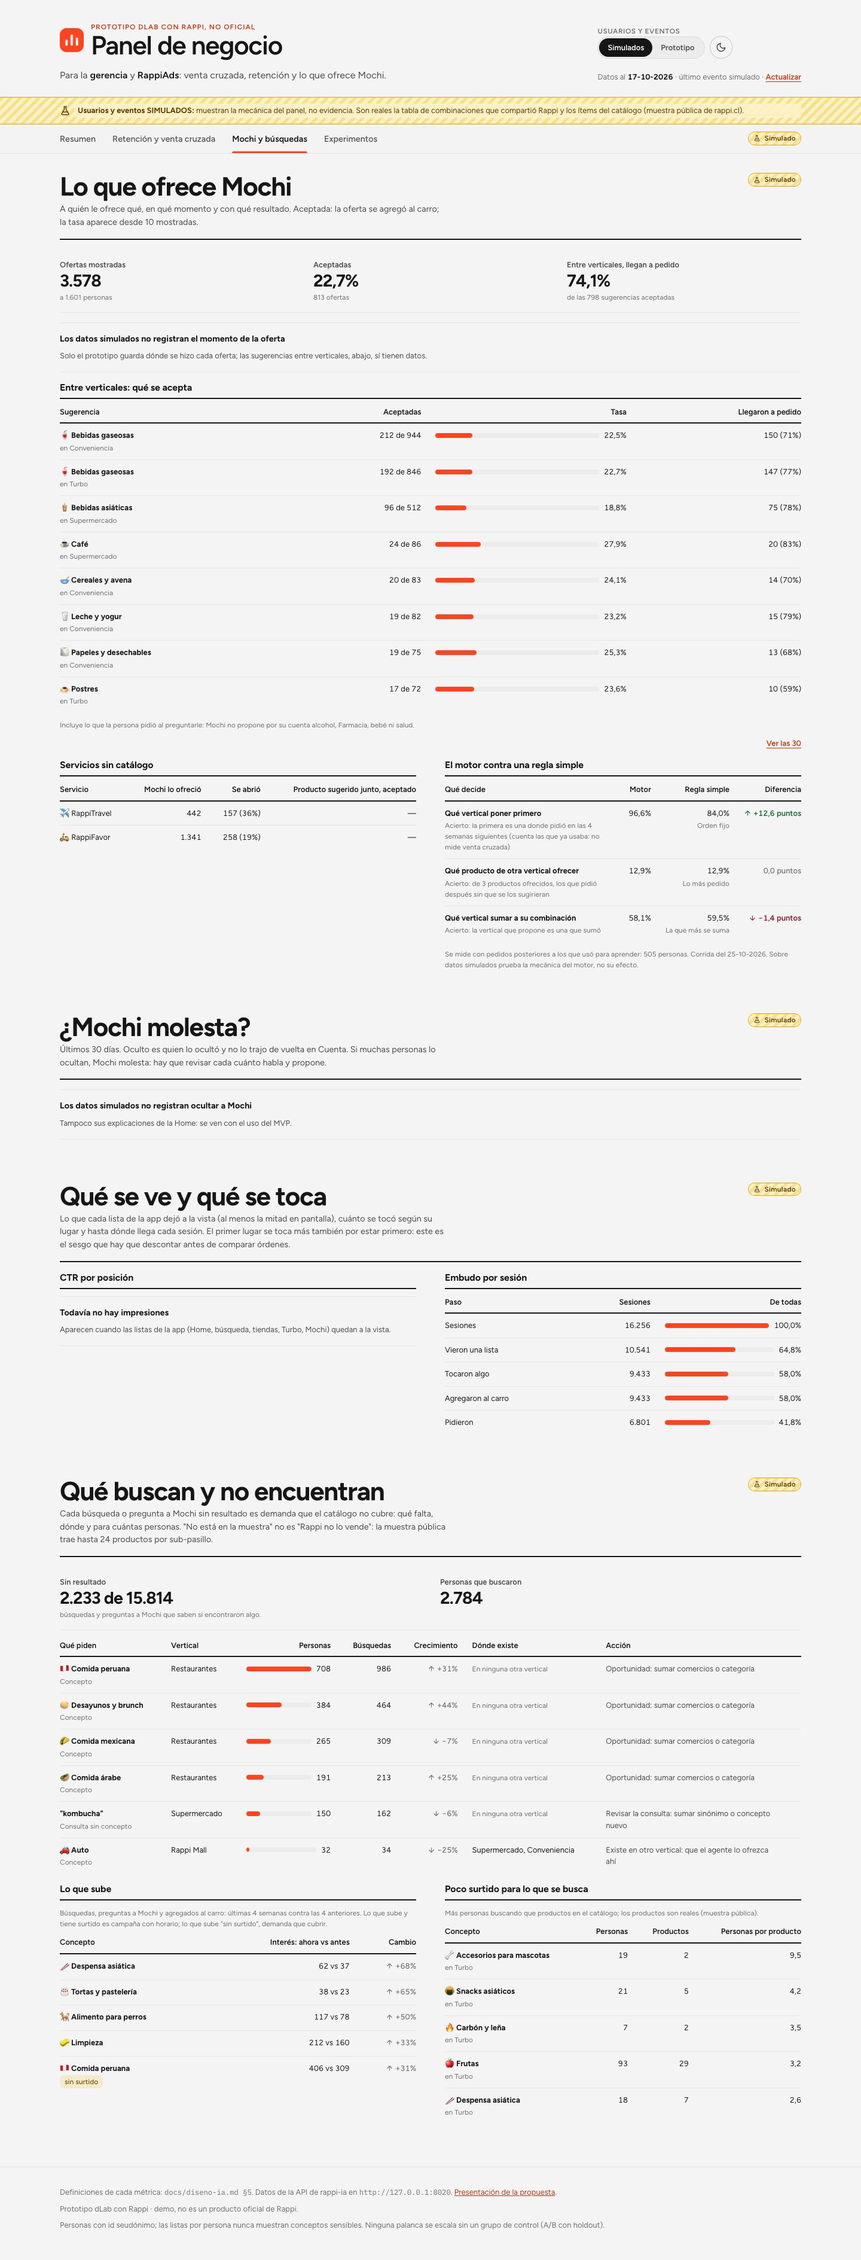
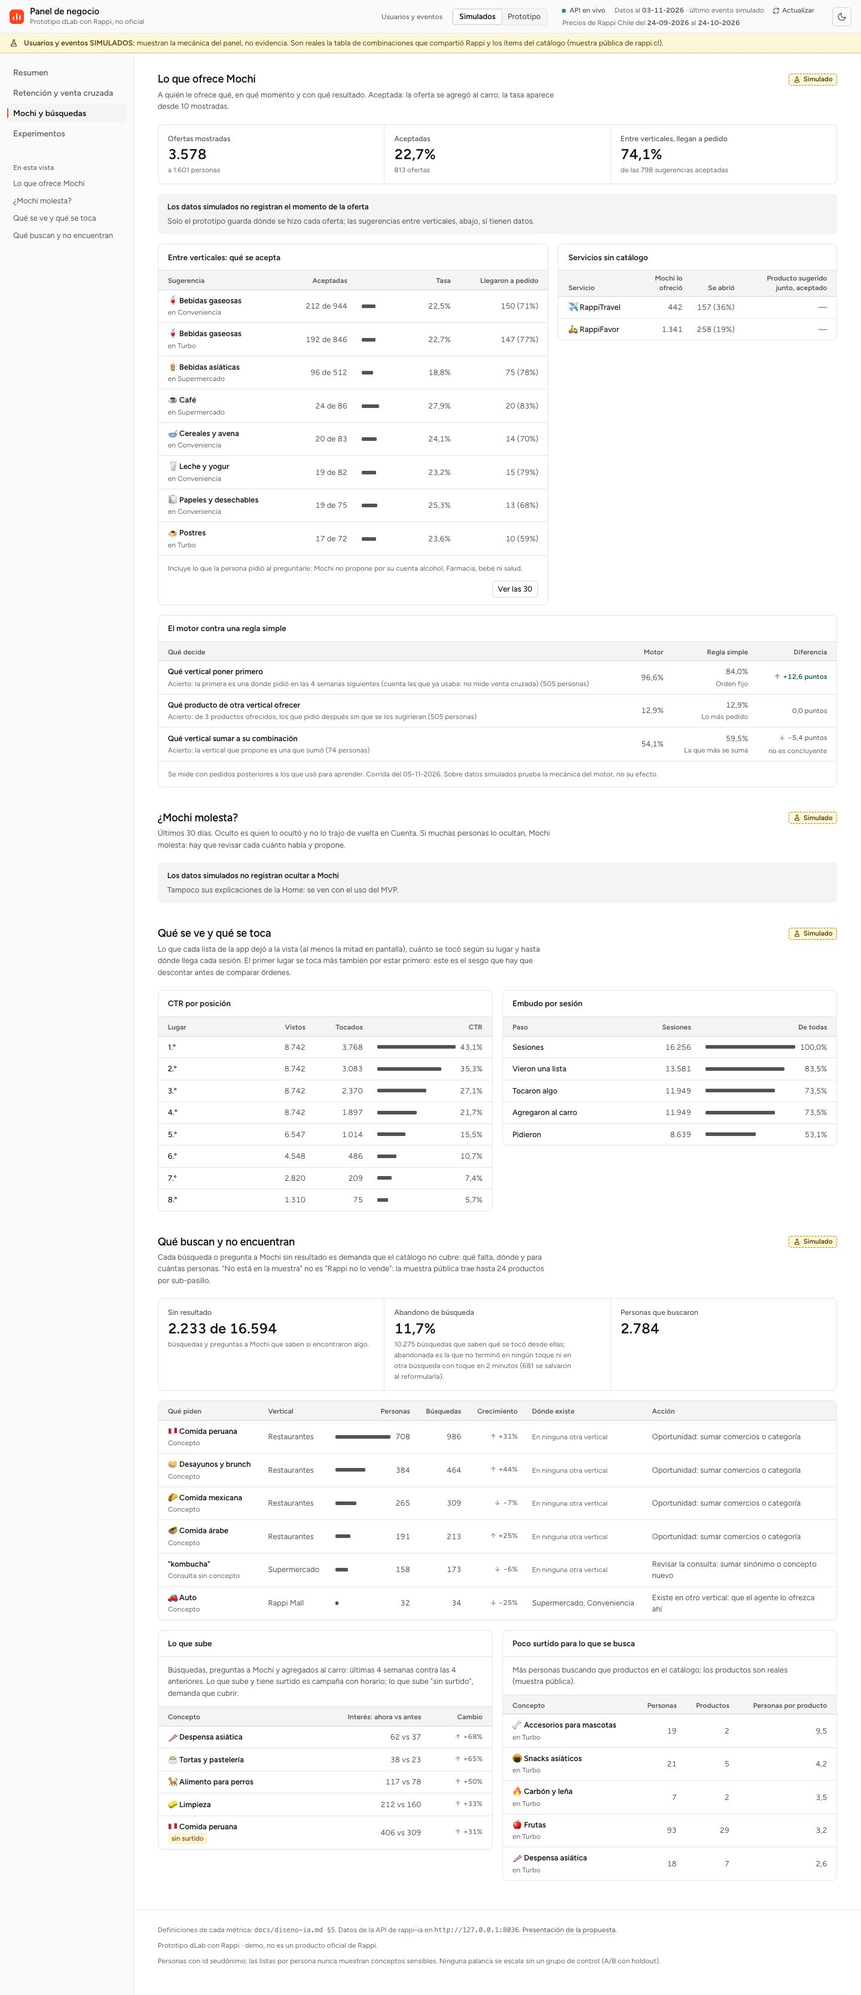
docs(panel): capturas y decisión del rediseño

diff --git a/dashboard-empresa/README.md b/dashboard-empresa/README.md
@@ -58,7 +58,7 @@ La URL de la API se cambia con `VITE_API_URL`, por ejemplo `VITE_API_URL=http://
 | `npm run format:check` | Revisa el formato con Prettier sin cambiar nada (lo que corre el CI); `npm run format` lo arregla |
 | `npm run build` | Build de producción en `dist/` |
 | `npm run fixtures` | Guarda en el repo las respuestas simuladas de la última foto de `npm run panel:snapshot`: las de `src/fixtures/sin-conexion/` (lo que se ve sin la API) y los ejemplos `*.synthetic.json` de los tests. Correrlo tras `make synth` o una actualización del catálogo, después de grabar la foto. El uso del prototipo no se guarda (lleva lo que hizo la gente). Los ejemplos de ofertas por momento, a quién invitar a volver, búsquedas sin resultado, combinaciones, motor y experimentos de `src/fixtures/` no pasan por aquí: los escribe `make contract` en `rappi-ia/` (con su simulación chica) y el CI falla si quedan desactualizados |
-| `npm run screenshots` | Regenera `docs/screenshots/` con el Chrome instalado y un Vite propio en el 5198 (con `VITE_API_URL`, contra otra API: las de este README se tomaron el 03-11-2026 contra una API sobre `rappi_staging`) |
+| `npm run screenshots` | Regenera `docs/screenshots/` con el Chrome instalado y un Vite propio en el 5198 (con `VITE_API_URL`, contra otra API: las de este README se tomaron el 10-11-2026 contra una API sobre `rappi_staging`) |
 | `npm run panel:snapshot` | Graba las respuestas que lee el panel (solo GET) desde una API sobre una copia de la base, en `snapshot/panel.json` (ignorada en git). La usan `npm run fixtures` y el [panel en un solo HTML](#panel-en-un-solo-html) |
 | `npm run panel:html` | Arma `dist-html/Panel de negocio (demo).html`: el panel con esas respuestas adentro, que abre con doble clic sin la API ni internet |
 | `npm run panel:snapshot:fixtures` | Arma `snapshot/panel.json` desde los ejemplos de `src/fixtures/` (sin API), para probar `npm run panel:html` (lo hace el CI). No pisa una foto grabada |
@@ -67,11 +67,11 @@ Tests: las cifras vigentes están en [README.md#resultados](../README.md#resulta
 
 ## Vistas
 
-Arriba se elige la fuente de usuarios y eventos: **Simulados** o **Prototipo** (lo hecho en `prototipo-app`). La vista y la fuente quedan en la URL (`?vista=clientes&fuente=prototipo`), así que un enlace abre exactamente lo mismo; una vista que no existe abre el Resumen. Ningún pedido cancelado cuenta en las cifras (migración 051). El encabezado dice de qué fecha son los precios ("Precios de Rappi Chile del … al …", el `catalogo` de `/catalog/home`; en el panel en un solo HTML, el de su foto); sin la API no lo muestra, porque los datos guardados no son del catálogo.
+Arriba se elige la fuente de usuarios y eventos: **Simulados** o **Prototipo** (lo hecho en `prototipo-app`). La barra de arriba dice además de dónde salen los datos que se ven ("API en vivo", "Datos guardados", "API sin conexión" o "Foto grabada"), la fecha de corte y "Actualizar"; debajo, la franja de procedencia (simulados o prototipo) queda fija al bajar. Desde 1200 px las vistas van en una navegación lateral, con "En esta vista" para saltar a cada sección; más angosto, en una tira fija arriba. La vista y la fuente quedan en la URL (`?vista=clientes&fuente=prototipo`), así que un enlace abre exactamente lo mismo; una vista que no existe abre el Resumen. Ningún pedido cancelado cuenta en las cifras (migración 051). El encabezado dice de qué fecha son los precios ("Precios de Rappi Chile del … al …", el `catalogo` de `/catalog/home`; en el panel en un solo HTML, el de su foto); sin la API no lo muestra, porque los datos guardados no son del catálogo.
 
 ### 1. Resumen
 
-**Qué decidir:** las cuatro preguntas como tarjetas. Cada una trae su procedencia, la cifra que se mira primero, su contexto (una comparación o la tendencia de 4 semanas), una acción sugerida que sale de los datos y el enlace a su detalle:
+**Qué decidir:** las cuatro preguntas como una lista, una fila por pregunta. Cada una trae su procedencia, la cifra que se mira primero, su contexto (una comparación o la tendencia de 4 semanas), una acción sugerida que sale de los datos y el enlace a su detalle:
 
 - **Venta cruzada** (dato de Rappi): la combinación donde están más usuarios (hoy, solo Restaurantes) y cuánto más vuelve quien suma el grupo siguiente. Acción: que Mochi lo ofrezca como "vertical por probar" y medirlo contra un grupo de control.
 - **A quién estamos perdiendo:** las personas en riesgo según su propio ritmo, con las perdidas como comparación. Acción: "¿Volvemos a…?" a quienes califican; fuera de la app, solo con consentimiento.
@@ -79,7 +79,7 @@ Arriba se elige la fuente de usuarios y eventos: **Simulados** o **Prototipo** (
 - Con la fuente del prototipo la acción se llama "Para revisar en el MVP": esos datos no son evidencia.
 - **Búsquedas:** el % sin resultado de la última semana contra 4 semanas antes y lo que más falta. Acción: la que da la API para esa demanda; si es "sumar comercios", primero revisar el buscador (un sinónimo o una categoría que falta).
 
-**Cómo va:** cinco indicadores. Personas activas, pedidos y abandono de carrito con su cambio contra 4 semanas antes y la tendencia de 12 semanas (la línea aparece desde 5 semanas completas); frecuencia (30 días) y el % que pide en 2 o más verticales (60 días), con lo que los explica. La serie semanal completa queda a un clic. Las diferencias de tasas van en "puntos" (puntos porcentuales).
+**Cómo va:** cinco indicadores en una tira. Personas activas, pedidos y abandono de carrito con su cambio contra 4 semanas antes y la tendencia de 12 semanas (la línea aparece desde 5 semanas completas); frecuencia (30 días) y el % que pide en 2 o más verticales (60 días), con lo que los explica. La serie semanal completa queda a un clic. Las diferencias de tasas van en "puntos" (puntos porcentuales).
 
 ![Resumen: qué decidir y cómo va](docs/screenshots/1-resumen-escritorio-claro.jpg)
 
@@ -101,7 +101,7 @@ Para la gerencia.
 
 Para RappiAds.
 
-- **Lo que ofrece Mochi:** ofertas mostradas, la tasa de aceptación y cuánto de lo aceptado entre verticales llega a pedido. Debajo, lado a lado: las **ofertas por momento**, cada una con una línea que dice dónde se hace (en un plan, con el carro armado, antes de pagar, para el próximo pedido, cuando una búsqueda no encontró nada, para probar otro vertical, en la recompra, al volver a pedir, en un perfil de gusto, mientras llega otro pedido (OnTop de Turbo), al preguntarle o en "Para ti") y, por momento, las rechazadas ("Ahora no" en el Carro; "Después" en Vertical por probar, Recompra y Volver a pedir; "—" en los momentos sin ese botón; la oferta que se fue sola del globo no es un rechazo), las abiertas (la vertical abierta desde el botón de la oferta, "Ver …" o "Abrir …", en Carro, Vertical por probar, Sin resultado y Perfil de gusto: no es una aceptación) y los "¿Por qué?" abiertos, las **sugerencias entre verticales** que más se muestran ("212 de 944" aceptadas, la tasa y cuántas llegaron a pedido; incluyen lo que la persona pidió al preguntarle, y Mochi no propone alcohol por su cuenta), los **servicios sin catálogo** (RappiTravel y RappiFavor: ofrecidos, abiertos y el gancho del catálogo aceptado) y **el motor contra una regla simple** (próximo vertical contra el orden fijo, compra cruzada contra lo más pedido y el paso de la escalera contra la vertical que más se suma, en el tramo de prueba de su evaluación por fechas). Los pedidos que Mochi hizo solo, con el permiso de "Pedir por mí", van en una línea aparte: no son ofertas aceptadas. Aceptada: la oferta se agregó al carro (también en la recompra, aunque su botón sea "Ver producto"). La tasa aparece desde 10 mostradas, o desde 10 aceptadas para lo que llega a pedido; antes, solo las cuentas. El simulador no guarda el momento de la oferta: con los simulados el panel lo dice en una línea y las sugerencias ocupan todo el ancho.
+- **Lo que ofrece Mochi:** ofertas mostradas, la tasa de aceptación y cuánto de lo aceptado entre verticales llega a pedido. Debajo, a todo el ancho, las **ofertas por momento**, cada una con una línea que dice dónde se hace (en un plan, con el carro armado, antes de pagar, para el próximo pedido, cuando una búsqueda no encontró nada, para probar otro vertical, en la recompra, al volver a pedir, en un perfil de gusto, mientras llega otro pedido (OnTop de Turbo), al preguntarle o en "Para ti") y, por momento, las rechazadas ("Ahora no" en el Carro; "Después" en Vertical por probar, Recompra y Volver a pedir; "—" en los momentos sin ese botón; la oferta que se fue sola del globo no es un rechazo), las abiertas (la vertical abierta desde el botón de la oferta, "Ver …" o "Abrir …", en Carro, Vertical por probar, Sin resultado y Perfil de gusto: no es una aceptación) y los "¿Por qué?" abiertos; lado a lado, las **sugerencias entre verticales** que más se muestran ("212 de 944" aceptadas, la tasa y cuántas llegaron a pedido; incluyen lo que la persona pidió al preguntarle, y Mochi no propone alcohol por su cuenta), los **servicios sin catálogo** (RappiTravel y RappiFavor: ofrecidos, abiertos y el gancho del catálogo aceptado), y a todo el ancho **el motor contra una regla simple** (próximo vertical contra el orden fijo, compra cruzada contra lo más pedido y el paso de la escalera contra la vertical que más se suma, en el tramo de prueba de su evaluación por fechas). Los pedidos que Mochi hizo solo, con el permiso de "Pedir por mí", van en una línea aparte: no son ofertas aceptadas. Aceptada: la oferta se agregó al carro (también en la recompra, aunque su botón sea "Ver producto"). La tasa aparece desde 10 mostradas, o desde 10 aceptadas para lo que llega a pedido; antes, solo las cuentas. El simulador no guarda el momento de la oferta: con los simulados el panel lo dice en una caja en su lugar.
 - **¿Mochi molesta?** (`/analytics/presencia`, últimos 30 días, como las personas activas del Resumen): cuántas personas activas tienen a Mochi oculto (su último cambio, `agent_visibility`, fue ocultarlo) y qué % son, cuántas veces lo ocultaron, cuántas lo trajeron de vuelta en Cuenta y cuántas veces explicó por qué movió los accesos de la Home (`vertical_reorder_shown`), a cuántas personas. Si muchas lo ocultan, Mochi molesta: hay que revisar cada cuánto habla y propone. La app no anota "¿Por qué?" ni "Entendido" del globo, así que no se cuentan. El simulador no genera estos eventos: con los simulados, un estado vacío que lo dice.
 - **Qué se ve y qué se toca:** de lo que cada lista de la app dejó a la vista (al menos la mitad en pantalla), el CTR por posición (`/analytics/ctr-posicion`) y el embudo por sesión: vio una lista → tocó algo → agregó al carro → pidió (`/analytics/embudo-sesion`). El primer lugar se toca más también por estar primero: es el sesgo que hay que descontar antes de comparar órdenes. Sale de las impresiones registradas (migraciones 047 y 048): sin ellas, la tabla queda vacía.
 - **Qué buscan y no encuentran:** la demanda no satisfecha agrupada por concepto y vertical (5 o más personas), con su crecimiento, dónde existe y la acción sugerida; si ninguna llega a ese mínimo (lo normal con el prototipo), las búsquedas sin resultado por vertical y concepto, nunca con el texto que escribió cada persona. Junto a las cuentas, el **abandono de búsqueda** (`abandono` en `/analytics/unmet`): las búsquedas que no terminaron en ningún toque ni en otra búsqueda con toque en 2 minutos, con cuántas se salvaron al reformularlas; el % aparece desde 10 búsquedas. Al lado, **lo que sube** (señales de interés, 4 semanas contra las 4 anteriores, con "sin oferta" si además es demanda no satisfecha) y **poco surtido** (más personas buscando que ítems en la muestra pública).
@@ -158,7 +158,7 @@ No se puede: actualizar (no hay API; el botón no aparece), ver la presentación
 - **Cada número con su contexto.** Una comparación (la combinación siguiente, las perdidas, la regla simple), la tendencia de 4 semanas o lo que lo explica. Las tasas aparecen desde 10 casos en su denominador; antes, solo las cuentas. Rojo solo para lo que empeora y verde para lo que mejora, siempre con flecha y texto; la demanda que crece va en gris, porque no es un resultado bueno ni malo.
 - **Color con significado.** El naranja Rappi para magnitud y para lo que se propone; el gris para el contexto (en la escalera, la retención de hoy), con contraste de 3:1 con el fondo y separable del naranja con daltonismo; el ámbar rayado marca lo simulado.
 - **Todo valor se puede leer sin el gráfico.** La escalera tiene su tabla (*Ver tabla*) y su descripción para lectores de pantalla; la serie semanal, su tabla.
-- **Accesibilidad.** Pestañas accesibles (← → Inicio Fin; en el teléfono, con nombres cortos: Resumen, Clientes, Mochi y Experimentos); los enlaces del Resumen llevan el foco al título de la sección; bajo 900 px las tablas pasan a tarjetas; respeto de `prefers-reduced-motion`.
+- **Accesibilidad.** Pestañas accesibles (← → y ↑ ↓, Inicio y Fin; en el teléfono, con nombres cortos: Resumen, Clientes, Mochi y Experimentos); los enlaces del Resumen y los de "En esta vista" llevan el foco al título de la sección; bajo 900 px las tablas pasan a tarjetas; respeto de `prefers-reduced-motion`.
 
 ## Estructura
 
@@ -167,9 +167,9 @@ src/
 ├── App.jsx                 pestañas, fuente, aviso de procedencia, enlaces a una sección
 ├── presentacion.js         página de presentación de la propuesta (con presentacion.html y public/presentacion/)
 ├── lib/                    api.js (API, respaldo y foto), metrics.js (lo que lee el panel), agentName.js (el nombre visible del agente), format.js (es-CL), labels.js, hooks
-├── components/             tabla, insignias, cifras, estados vacío/carga/error
+├── components/             tabla, panel, insignias, cifras, estados vacío/carga/error
 │   ├── charts/             chispa de tendencia (SVG propio, sin librerías)
-│   └── shell/              encabezado, selector de fuente, tema, pestañas
+│   └── shell/              encabezado, selector de fuente, tema, pestañas y "En esta vista"
 ├── views/
 │   ├── overview/           Resumen: las 4 decisiones (decisions.js) y cómo va (weekly.js)
 │   ├── customers/          Retención y venta cruzada: la escalera (ladder.js) y el rescate (audiences.js)
@@ -177,7 +177,7 @@ src/
 │   └── experiments/        Experimentos: una tabla por experimento (etiquetas en experiments.js)
 ├── demo/                   "Ver cómo funciona" (solo en el panel en un solo HTML): el recorrido (tour.js) y su tarjeta
 ├── fixtures/               respuestas de ejemplo de la API para los tests; sin-conexion/, las que se ven sin la API
-├── styles/                 estilos
+├── styles/                 tokens, estilos globales y shared.css (marca y pie, compartidos con la presentación)
 └── test/                   API falsa para los tests de render
 scripts/                    panel-snapshot.mjs (la foto de la API), fixtures-snapshot.mjs (la foto chica que usa el CI), update-fixtures.mjs, screenshots.mjs y panel-html.mjs (el HTML suelto)
 docs/screenshots/           capturas (en git solo las 5 que usa este README, comprimidas)

diff --git a/docs/decisiones.md b/docs/decisiones.md
@@ -21,7 +21,7 @@ Resumen de lo que rige hoy (05-11-2026); el detalle y el porqué están en las f
 - **Descubrimiento (25-10):** filtros que funcionan, abierto o cerrado según lo publicado, recientes y "Lo más buscado", tiendas en la búsqueda, comparar entre tiendas y "Lo que sea" ([búsqueda](#búsqueda-e-ia)).
 - **Lo destacado** (lo más pedido, los kits y las listas de restaurantes) se cura con reglas generales en datos, al mostrarlo (24-10) ([agente](#agente-mochi)).
 - **Datos de personas:** solo simulados o del prototipo, nunca mezclados ni presentados como evidencia. El motor aprende de `MOTOR_POBLACION` (hoy, la simulada) y lo declara; la tabla de Rappi es una correlación, no un efecto ([datos simulados y panel](#datos-simulados-y-panel)).
-- **Panel de negocio:** parte del MVP, en 3 vistas alrededor de 4 preguntas para la gerencia y RappiAds (22-10), más una de experimentos (31-10); el grupo de control de ofertas (`ofertas_control`) queda apagado hasta la prueba con usuarios ([datos simulados y panel](#datos-simulados-y-panel)).
+- **Panel de negocio:** parte del MVP, en 3 vistas alrededor de 4 preguntas para la gerencia y RappiAds (22-10), más una de experimentos (31-10); el grupo de control de ofertas (`ofertas_control`) queda apagado hasta la prueba con usuarios. Desde el 10-11 tiene un lenguaje visual propio, con la procedencia fija arriba y un solo acento ([datos simulados y panel](#datos-simulados-y-panel)).
 - **Operación:** el MVP exige la API (`make mvp`); en un servidor es una demo cerrada en la que la API nunca migra. El scraper se identifica con su propio User-Agent y respeta robots.txt; la base se entrega con `make dump-entrega`, sin las personas del prototipo. Jev es opcional y viene apagado ([operación](#operación), [búsqueda](#búsqueda-e-ia)).
 - **Entrega (24-10):** un repositorio nuevo, que partió de un solo commit y sigue con PR revisados, licencia "Todos los derechos reservados" con permiso de uso interno para Rappi, la app toda en español y `CLAUDE.md` como guía de convenciones ([repositorio](#repositorio-y-documentación)).
 - **Documentación:** las decisiones viven aquí y los diseños vigentes en [diseno/](diseno/) ([repositorio](#repositorio-y-documentación)).
@@ -250,6 +250,7 @@ Resumen de lo que rige hoy (05-11-2026); el detalle y el porqué están en las f
 | 03-11-2026 | **Matizada el 04-11-2026:** con los simulados regenerados (8 % de búsquedas reformuladas) hay 681 rescatadas ([resultados](resultados/simulados-2026-11-04.md)); siguen siendo simulados: muestran la mecánica. **El abandono de búsqueda se mide por el `request_id`, no por la hora** (`/analytics/unmet`, `abandono`; sin migración). Una búsqueda tiene toque si en su sesión hay una ficha, una tienda, una recomendación, un agregado al carro o la sugerencia aceptada con su mismo `request_id`; sin toque, se salva si otra búsqueda con toque la sigue en 2 minutos (la reformulación funcionó) y, si no, queda abandonada. Solo cuentan las búsquedas con `request_id` (las de antes de la migración 043 no saben qué se tocó desde ellas) y ningún concepto sensible; el % pide 10 búsquedas. Va junto a "sin resultado" en "Qué buscan y no encuentran". | La definición de `diseno-ia.md` §5 pedía "sin clic"; el sobre de eventos de la fase 1 liga cada toque a la respuesta que lo originó, así que no hace falta adivinar por cercanía. El abandono con resultados dice algo que "sin resultado" no ve: lo que encuentra pero no sirve. Con los simulados no hay reformulaciones (`rescatadas` 0): muestra la mecánica. |
 | 05-11-2026 | **λ de la compra cruzada solo sube de 0 si gana al menos 5 aciertos en validación** (`LAMBDA_MIN_GAIN_HITS` en `motor/evaluate.py`): `rappi-ia motor` cuenta los aciertos de la mezcla con cada λ de la grilla y uno mayor reemplaza al elegido solo si lo supera en 5 o más; en un empate o casi empate queda el menor. Con los simulados del 04-11 (503 personas en validación, 1.509 recomendaciones), λ 0 y 0,5 aciertan 201 y λ 1, 2 y 4, 203: λ pasa de 1 a 0. | Antes ganaba cualquier mejora: 2 aciertos de 1.509 (precisión@3 0,1332 contra 0,1345) encendían la variante "Para tu pedido de …", que solo sale con λ > 0, así que la oferta de la demo cambiaba por ruido. Costo: esa variante aparece menos; con los simulados actuales no aparece y sale "Lo más pedido en …". |
 | 05-11-2026 | **El panel no pinta una diferencia que no es concluyente** (`dashboard-empresa/src/views/mochi/`: `motor.js` y `MotorCheck.jsx`; `motor/evaluate.py`: `_step`; sin migración). El paso de la escalera informa `solo_paso`, `solo_base` y `p_mcnemar` (McNemar exacto bilateral, en el tramo de prueba; no en validación, donde se eligen los pesos). En "El motor contra una regla simple" cada fila dice su n, y la diferencia del paso cuenta como ruido si p ≥ 0,05 o, en las corridas sin p, si mide menos de 100 personas: queda neutra y dice "no es concluyente". Una diferencia con juicio dice "(mejora)" o "(empeora)" en texto para el lector de pantalla. | La nota atribuía a todas las filas las 505 personas del próximo vertical, pero el paso se mide con 74 y su −5,4 salía en rojo: con 5 contra 9 pares discordantes (p = 0,42) es ruido. El color solo no le dice nada a un lector de pantalla ni a quien no distingue rojo de verde. |
+| 10-11-2026 | **El panel cambia de lenguaje visual, sin tocar sus textos, sus cifras ni la API** (`dashboard-empresa/src/styles/tokens.css` y los CSS de cada vista). **(1)** Lenguaje propio con tokens, sin Carbon ni Fluent: se toman prestadas la densidad de tabla de Carbon (filas de 36 px), el "entorno de datos" fijo de Stripe y la navegación lateral de Linear. **(2)** Un solo acento, el naranja-rojo de Rappi, racionado: marca, vista activa, el punto "después" de la escalera, el foco y el resaltado de la demostración. Links, botones, barras de tabla y rótulos de acción pasan a neutros, así el carmesí de "empeora" queda como el único rojo con juicio. **(3)** La procedencia sin rayado y siempre a la vista: la franja de simulados o prototipo queda fija bajo la barra superior (desde 1200 px), y la insignia de cada bloque se distingue por texto, ícono y tipo de borde (sólido, punteado o relleno), no solo por color. La barra dice además de dónde salen los datos ("API en vivo", "Datos guardados", "API sin conexión" o "Foto grabada"). **(4)** Sin filtro de fechas ni comparación de periodos: `GET /analytics/{name}` solo acepta `source` y las ventanas las fija el backend; una comparación armada en el cliente sería otra definición de "cómo va" que la de `diseno-ia.md` §5. **(5)** Sale IBM Plex Mono (unos 93 KB para 4 usos); el panel en un solo HTML baja de 543 a 425 KB. | Se leía como hecho con IA: títulos de 44 px con reglas negras, cifras de 48 px en tarjetas 2x2, rojo en todo lo que se podía tocar, rayado que obligaba a ponerle fondo al texto y la misma insignia repetida en la barra de pestañas. La tabla "Por momento" (7 columnas) quedaba en media columna y se cortaba; ahora va a todo el ancho. Un sistema externo sumaba cientos de KB al HTML suelto, obligaba a pisar casi todos sus tokens y partía la presentación, que comparte tokens y estilos con el panel. |
 
 ## Operación
 
